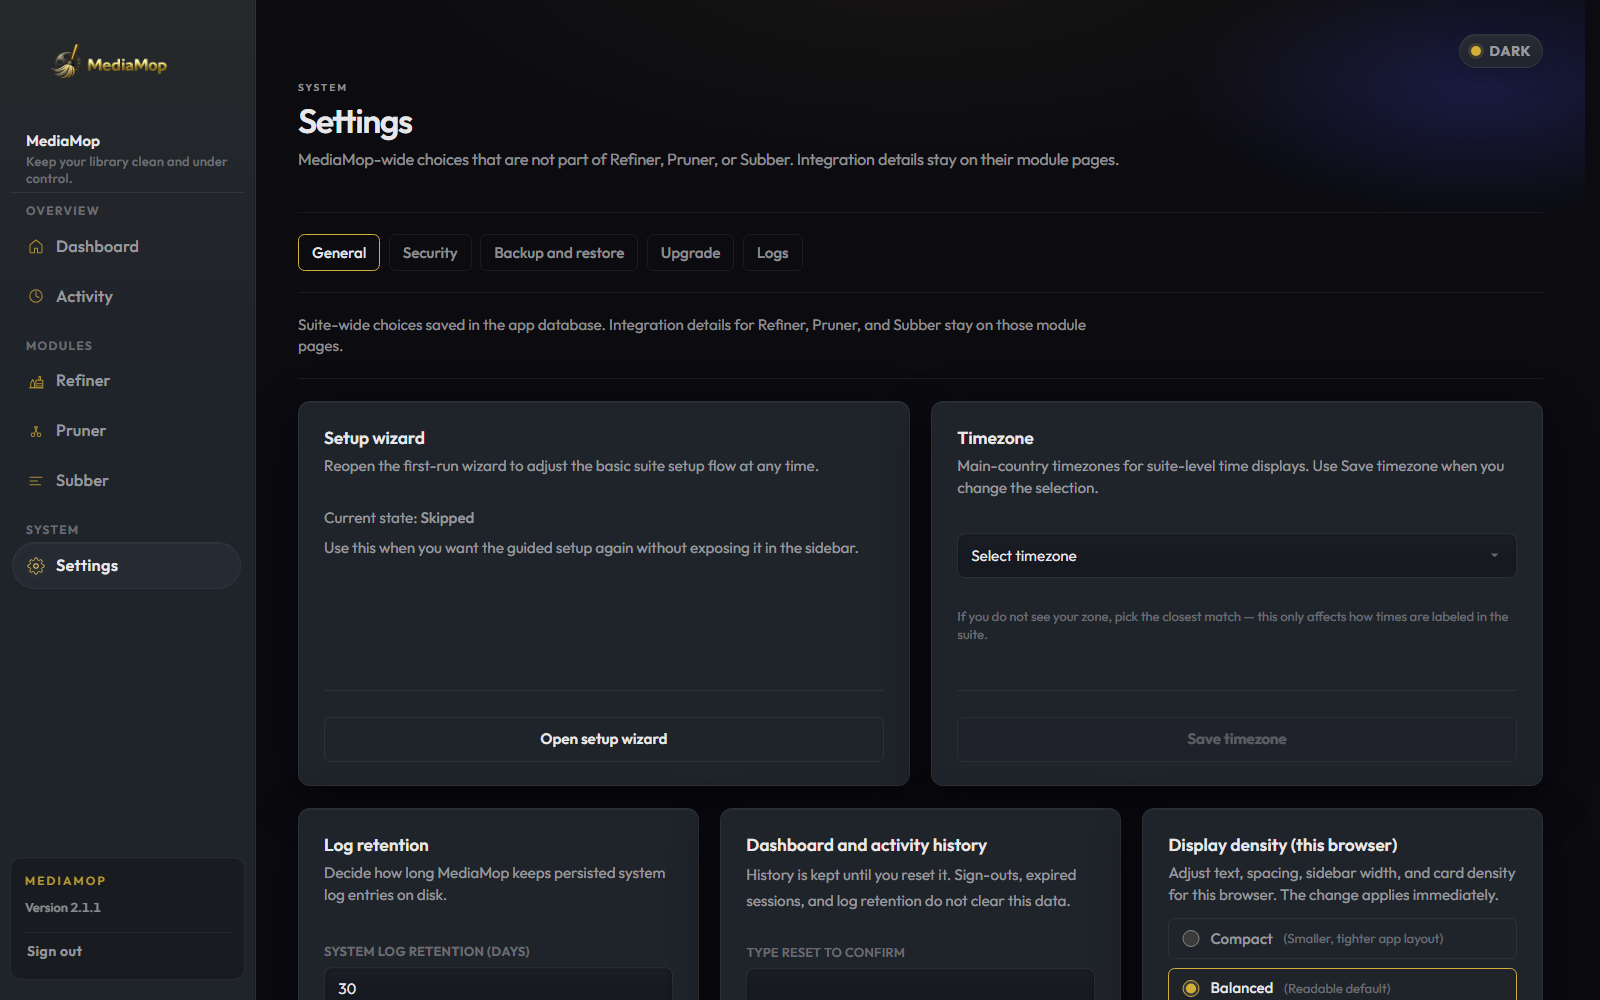
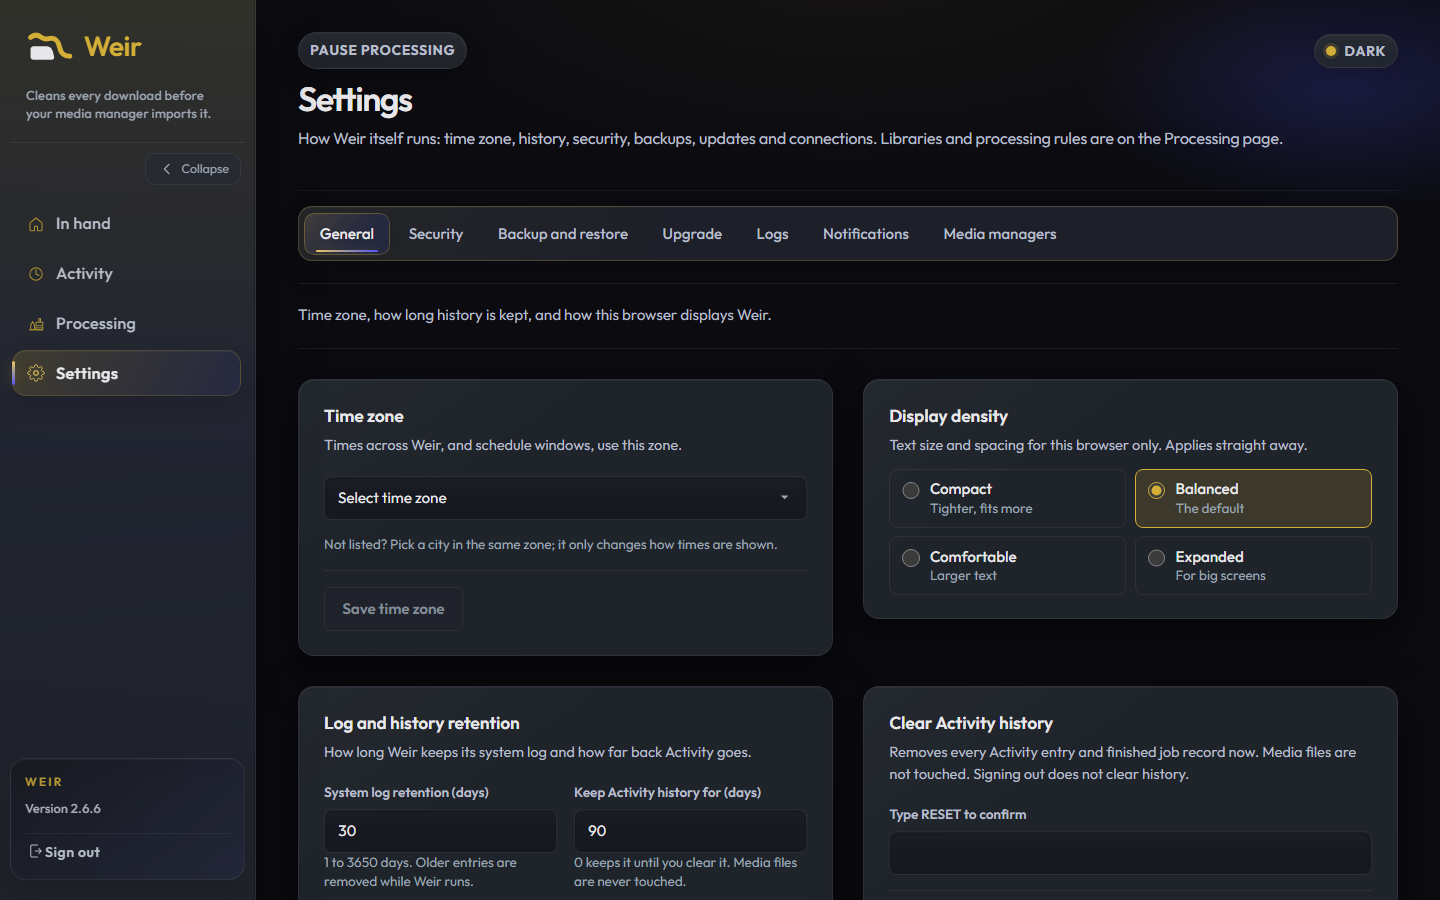
docs: new screenshots and page names for the Weir design (closes #564) (#569)
* docs: refresh screenshots and page names for the Weir design (#564)

Retake screenshots/* from a seeded local instance (desktop 1440x900 dark
and light, plus a 400x860 phone shot) to match the redesigned nav and
brand, and update README.md, ARCHITECTURE.md and docs-site text that
still said "Dashboard" or "Refiner" for a page/nav label instead of the
current "In hand" and "Processing" (with its new "Existing library" tab).

* docs: the .NET server does watch folders live; describe both triggers

The watcher was ported in #552 (RefinerWatchedFolderWatcherService, one per
enabled library, debounced, full scan on overflow); the periodic scan is the
backstop for folders a watcher cannot see.

---------

diff --git a/docs-site/src/pages/index.tsx b/docs-site/src/pages/index.tsx
@@ -8,10 +8,10 @@ import styles from './index.module.css';
 
 const features = [
   {
-    title: 'Refiner',
+    title: 'Processing',
     description:
-      'Remux media files into cleaner, more consistent outputs with configurable worker lanes.',
-    screenshot: '/Weir/img/refiner.png',
+      'Keep the audio and subtitle tracks you want in each download and remove the rest, library by library, with configurable worker lanes.',
+    screenshot: '/Weir/img/processing.png',
   },
 ];
 
@@ -75,18 +75,18 @@ function Features(): ReactNode {
   );
 }
 
-function DashboardPreview(): ReactNode {
+function InHandPreview(): ReactNode {
   return (
     <section className={styles.preview}>
       <div className="container">
-        <h2>Dashboard at a glance</h2>
+        <h2>In hand, at a glance</h2>
         <p>
-          Live system health, recent work, logs, and core app configuration in
-          one place.
+          Files Weir is responsible for right now, between your media manager
+          handing them over and getting them back.
         </p>
         <img
-          src="/Weir/img/dashboard.png"
-          alt="Weir Dashboard"
+          src="/Weir/img/in-hand.png"
+          alt="Weir In hand page"
           className={styles.dashboardImage}
         />
       </div>
@@ -101,7 +101,7 @@ export default function Home(): ReactNode {
       <Hero />
       <main>
         <Features />
-        <DashboardPreview />
+        <InHandPreview />
       </main>
     </Layout>
   );

diff --git a/docs-site/docs/architecture/overview.md b/docs-site/docs/architecture/overview.md
@@ -56,7 +56,7 @@ but the .NET migrations are now the only source of schema changes.
 |-----------|---------------|
 | `src/app` | App-level router and providers |
 | `src/layouts` | Shell/navigation layout |
-| `src/pages` | Feature pages (In hand, Refiner, Activity, Settings, setup) |
+| `src/pages` | Feature pages (In hand, Processing, Activity, Settings, setup) |
 | `src/lib` | API clients, query hooks, typed data helpers |
 | `src/components` | Reusable UI and brand components |
 
@@ -70,8 +70,19 @@ flowchart LR
   Result --> Metrics["Runtime metrics / Prometheus"]
 ```
 
-New files are picked up by the periodic watched-folder scan. The filesystem watcher that reacted
-to new files immediately has not been ported to the .NET server yet.
+New files are noticed two ways, and both end at the same job.
+
+- **Straight away.** Each enabled library with a watched folder and "watch for changes" turned on gets
+  its own recursive filesystem watcher. Events are debounced (`WEIR_REFINER_WATCHER_DEBOUNCE_SECONDS`,
+  3 seconds by default) and then queue the ordinary watched-folder scan. Creating, editing or deleting a
+  library takes effect without a restart, and if the operating system reports lost events the library is
+  scanned in full and its watcher replaced. `WEIR_REFINER_WATCHER_ENABLED=0` turns the watchers off.
+- **As a backstop.** Every library is scanned on its own timer anyway (`scan_interval_seconds`, five
+  minutes by default), so a folder a watcher cannot see — a network share, a container mount that does
+  not forward events — still gets picked up.
+
+The watcher decides nothing about a file itself: extension checks, exclusions, size limits, the hold
+timer and settling all stay in the scan handler that already owns them.
 
 ## Deployment model
 

diff --git a/README.md b/README.md
@@ -19,28 +19,34 @@ Weir is a self-hosted media operations app for people who want more control over
 
 It brings a few focused tools together in one place:
 
-- **Refiner** cleans up media files by remuxing them into a cleaner, more consistent result.
+- **Processing** cleans up media files by remuxing them into a cleaner, more consistent result, library by library, and can also clean files already sitting in an existing library.
 - **In hand, Activity, and Settings** give you a live view of what Weir is holding, recent work, logs, and core app configuration.
 
 The app ships as a C# / .NET 10 server with SQLite and a React + Vite web UI.
 
 ## Screenshots
 
-| Dashboard | Activity |
+| In hand | Activity |
 | --- | --- |
-| ![Dashboard](screenshots/dashboard.png) | ![Activity](screenshots/activity.png) |
+| ![In hand](screenshots/in-hand.png) | ![Activity](screenshots/activity.png) |
 
-| Refiner |
-| --- |
-| ![Refiner](screenshots/refiner.png) |
+| Processing | Existing library |
+| --- | --- |
+| ![Processing](screenshots/processing.png) | ![Existing library](screenshots/existing-library.png) |
 
 | Settings |
 | --- |
 | ![Settings](screenshots/settings.png) |
 
-### Refiner activity detail
+### Processing record detail
 
-![Refiner activity detail](screenshots/refiner-activity.png)
+![Processing record detail](screenshots/processing-detail.png)
+
+### Dark, light, and on your phone
+
+| Light mode | On your phone |
+| --- | --- |
+| ![In hand in light mode](screenshots/in-hand-light.png) | ![In hand on a phone](screenshots/in-hand-mobile.png) |
 
 ## Quick start
 

diff --git a/ARCHITECTURE.md b/ARCHITECTURE.md
@@ -26,7 +26,7 @@ Weir is a self-hosted media operations app:
   one is asked what it is importing and which files it still keeps. "Could not ask" is a
   distinct answer from "nothing is importing", and only the latter clears a delete. See
   [ADR-0015](docs/adr/ADR-0015-media-manager-port-outbound.md).
-- **Dashboard, Activity, and Settings** expose runtime health, history, logs, backups, upgrades, and security posture.
+- **In hand, Activity, and Settings** expose runtime health, history, logs, backups, upgrades, and security posture.
 
 ## Runtime Shape
 
@@ -64,7 +64,7 @@ Solution `apps/server/Weir.slnx`; details in [`apps/server/README.md`](apps/serv
 
 - `src/app`: app-level router and providers.
 - `src/layouts`: shell/navigation layout.
-- `src/pages`: feature pages (In hand, Refiner, Activity, Settings, setup).
+- `src/pages`: feature pages (In hand, Processing, Activity, Settings, setup).
 - `src/lib`: API clients, query hooks, typed data helpers, and UI helpers.
 - `src/components`: reusable UI and brand components.
 - `src/styles`: design tokens and shell styling.
